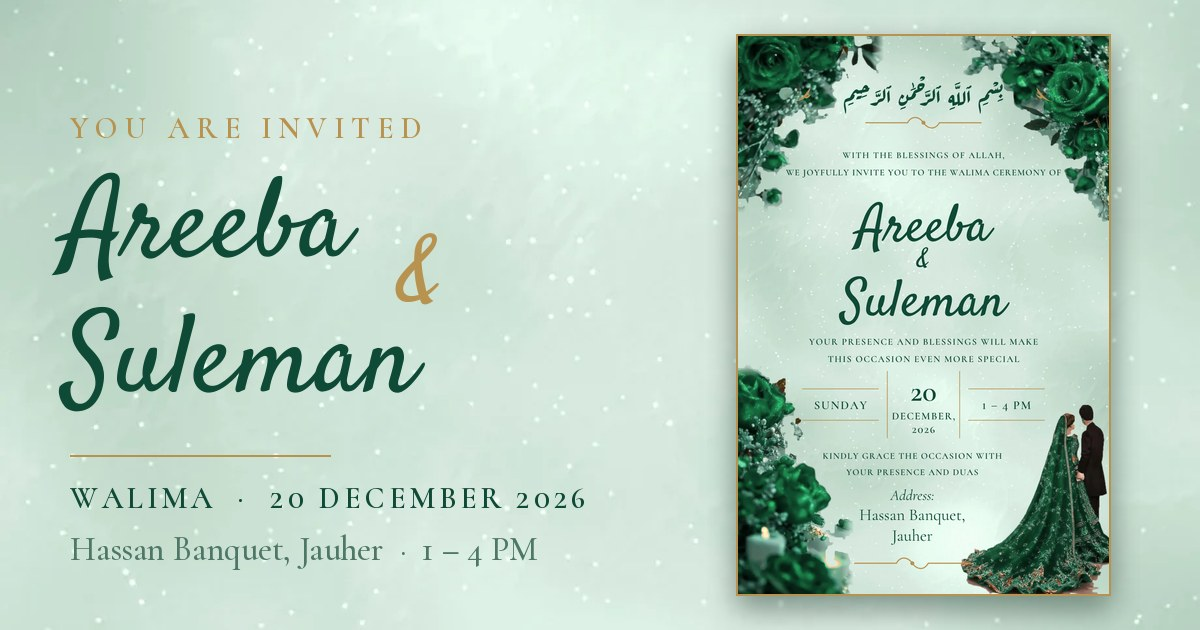
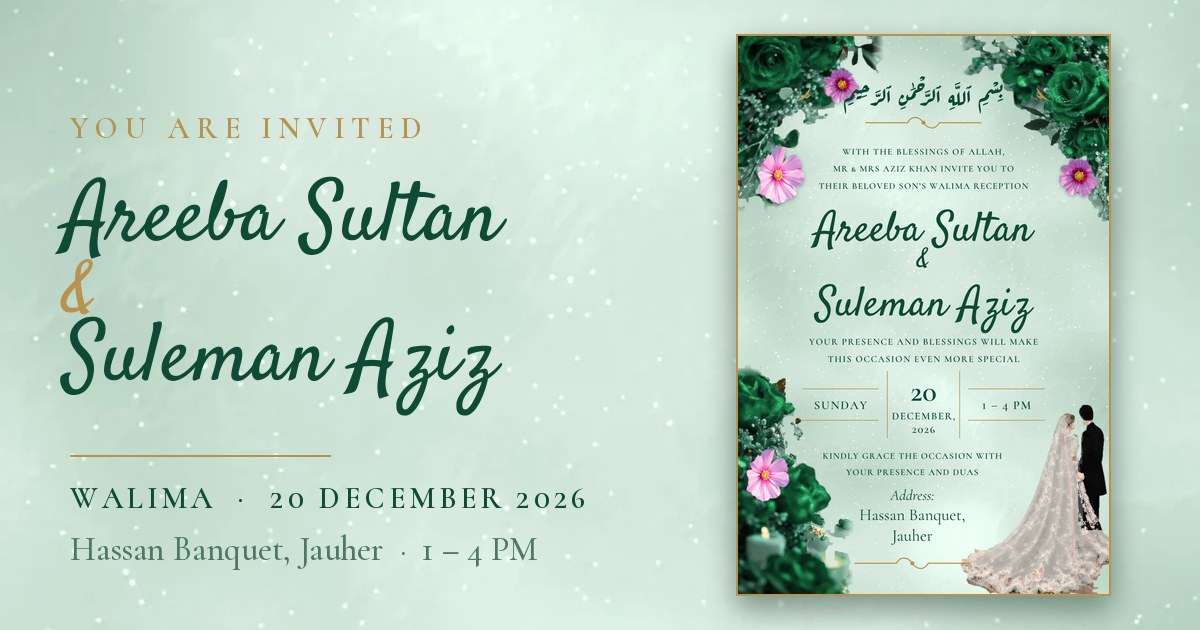
Areeba & Suleman: full names and the hosts' line (Mr & Mrs Aziz Khan) on the card
Claude-Session: https://claude.ai/code/session_014mE54nZZVFzgToMktFZNKW

diff --git a/areeba-suleman/index.html b/areeba-suleman/index.html
@@ -7,15 +7,15 @@
 <link rel="icon" href="favicon.svg" type="image/svg+xml">
 <link rel="apple-touch-icon" href="apple-touch-icon.png">
 <meta property="og:type" content="website">
-<meta property="og:title" content="Areeba &amp; Suleman – Walima Invitation">
+<meta property="og:title" content="Areeba Sultan &amp; Suleman Aziz – Walima Invitation">
 <meta property="og:description" content="You are invited to the Walima on Sunday, 20 December 2026, 1:00 – 4:00 PM at Hassan Banquet, Jauher.">
 <meta property="og:image" content="https://areeba-suleman.vercel.app/og.jpg">
 <meta property="og:image:width" content="1200">
 <meta property="og:image:height" content="630">
 <meta name="twitter:card" content="summary_large_image">
 <meta name="twitter:image" content="https://areeba-suleman.vercel.app/og.jpg">
-<title>Areeba &amp; Suleman – Walima Invitation</title>
-<meta name="description" content="Areeba and Suleman invite you to their Walima on Sunday, 20 December 2026, 1:00 – 4:00 PM at Hassan Banquet, Jauher.">
+<title>Areeba Sultan &amp; Suleman Aziz – Walima Invitation</title>
+<meta name="description" content="Mr and Mrs Aziz Khan invite you to the Walima reception of their beloved son Suleman Aziz and Areeba Sultan on Sunday, 20 December 2026, 1:00 – 4:00 PM at Hassan Banquet, Jauher.">
 <link rel="preconnect" href="https://fonts.googleapis.com">
 <link rel="preconnect" href="https://fonts.gstatic.com" crossorigin>
 <link href="https://fonts.googleapis.com/css2?family=Amiri&family=Satisfy&family=Aref+Ruqaa:wght@400;700&family=Cormorant+Garamond:ital,wght@0,400;0,600;1,400&family=Cormorant+SC:wght@500;600&family=Great+Vibes&family=Playfair+Display:ital,wght@0,400;0,600;1,400&family=Poppins:wght@300;400;600&display=swap" rel="stylesheet">
@@ -154,7 +154,7 @@
   .ec-orn{width:32cqw;height:3.6cqw;color:var(--ec-gold);margin:1cqw 0 3.5cqw}
   .ec-caps{font:600 2.4cqw/1.85 'Cormorant SC','Cormorant Garamond',Georgia,serif;letter-spacing:.07em;text-transform:uppercase;color:var(--ec)}
   .ec-names{font-weight:400;font-family:'Satisfy','Snell Roundhand',cursive;color:var(--ec);line-height:1;margin:0}
-  .ec-names span{display:block;font-size:14cqw;line-height:1}
+  .ec-names span{display:block;font-size:11.2cqw;line-height:1.05}
   .ec-names i{display:block;font-family:'Satisfy','Snell Roundhand',cursive;font-style:normal;font-size:7cqw;line-height:.9;margin:.5cqw 0}
   .ec-date{display:grid;grid-template-columns:1fr 1.05fr 1fr;align-items:center;width:66cqw;margin:3.5cqw 0 0}
   .ec-date .dl,.ec-date .dr{font:600 3.2cqw 'Cormorant SC',Georgia,serif;letter-spacing:.1em;text-transform:uppercase;text-align:center;padding:1.8cqw 0;margin:0 1.6cqw;border-top:1px solid var(--ec-gold);border-bottom:1px solid var(--ec-gold)}
@@ -230,7 +230,7 @@
   .h-name{font:400 2.5rem/1.2 var(--serif);margin-top:6px;overflow-wrap:anywhere}
   .h-sub{color:var(--muted);font-size:.95rem;margin-top:8px}
   .h-of{margin-top:46px;font:600 .7rem var(--sans);letter-spacing:.4em;text-transform:uppercase;color:var(--accent)}
-  .h-names{font:600 clamp(3.2rem,16vw,4.8rem)/1.05 var(--serif);margin-top:14px;letter-spacing:-.01em}
+  .h-names{font:600 clamp(2.2rem,10.6vw,3.6rem)/1.1 var(--serif);margin-top:14px;letter-spacing:-.01em}
   .h-names span{display:block}
   .h-names em{font-style:italic;font-weight:400;color:var(--accent);font-size:1.05em;margin-right:.12em}
   .h-rule{width:170px;height:1px;margin:30px auto;background:linear-gradient(90deg,transparent,var(--gold),transparent)}
@@ -454,10 +454,10 @@
         <div class="ec-top">
           <div class="ec-bw"><svg class="lf" viewBox="0 0 24 24" aria-hidden="true"><use href="#sprig"/></svg><p class="ec-bism" lang="ar" dir="rtl">بِسْمِ ٱللَّهِ ٱلرَّحْمَٰنِ ٱلرَّحِيمِ</p><svg class="lf r" viewBox="0 0 24 24" aria-hidden="true"><use href="#sprig"/></svg></div>
           <svg class="ec-orn" aria-hidden="true"><use href="#flourish"/></svg>
-          <p class="ec-caps">With the blessings of Allah,<br>we joyfully invite you to the Walima ceremony of</p>
+          <p class="ec-caps">With the blessings of Allah,<br>Mr &amp; Mrs Aziz Khan invite you to<br>their beloved son’s Walima reception</p>
         </div>
 
-        <h1 class="ec-names"><span>Areeba</span><i>&amp;</i><span>Suleman</span></h1>
+        <h1 class="ec-names"><span>Areeba Sultan</span><i>&amp;</i><span>Suleman Aziz</span></h1>
 
         <div class="ec-mid">
           <p class="ec-caps">Your presence and blessings will make<br>this occasion even more special</p>
@@ -530,7 +530,7 @@
         <p class="h-sub">We are delighted to celebrate with you</p>
 
         <p class="h-of">The wedding of</p>
-        <h1 class="h-names"><span>Areeba</span><span><em>&amp;</em>Suleman</span></h1>
+        <h1 class="h-names"><span>Areeba Sultan</span><span><em>&amp;</em>Suleman Aziz</span></h1>
         <div class="h-rule"></div>
         <p class="h-quote">With the blessings of Allah, we begin our new life together.</p>
 
@@ -580,7 +580,7 @@
       <p class="eyebrow">The countdown begins</p>
       <h2>Counting Down to <em>Forever</em></h2>
       <div class="rule"></div>
-      <p class="lead">Every second brings us closer to the beautiful celebration of Areeba and Suleman.</p>
+      <p class="lead">Every second brings us closer to the beautiful celebration of Areeba Sultan and Suleman Aziz.</p>
       <div class="card">
         <h3 style="color:var(--accent);margin-top:0">Walima</h3>
         <p class="date" style="margin-top:12px">20 December 2026</p>
@@ -600,7 +600,7 @@
       <div class="rule"></div>
       <p>Some journeys begin quietly and grow into a story worth celebrating for a lifetime.</p>
       <p>With the grace of Allah and the prayers of our loved ones, two lives are becoming one.</p>
-      <p class="story-names">Areeba <i>&amp;</i> Suleman</p>
+      <p class="story-names">Areeba Sultan <i>&amp;</i> Suleman Aziz</p>
     </section>
 
     <section id="journey" class="sec rv wrap">
@@ -740,7 +740,7 @@
       <div class="share-card">
         <svg class="rings" viewBox="0 0 62 34" fill="none" stroke="currentColor" stroke-width="1.6" aria-hidden="true"><circle cx="21" cy="17" r="14"/><circle cx="41" cy="17" r="14"/></svg>
         <p class="eyebrow">You are invited</p>
-        <p class="names2">Areeba <i>&amp;</i> Suleman</p>
+        <p class="names2">Areeba Sultan <i>&amp;</i> Suleman Aziz</p>
         <p class="date">20 December 2026</p>
         <p class="lead" style="margin-top:12px">Hassan Banquet, Jauher</p>
         <div class="share-actions">
@@ -760,7 +760,7 @@
     <p class="eyebrow">With love and gratitude</p>
     <h2>Thank you for being part of our story</h2>
     <p class="lead" style="margin-top:18px">Your love, blessings and presence will make our celebration even more beautiful.</p>
-    <p class="fn">Areeba &amp; Suleman</p>
+    <p class="fn">Areeba Sultan &amp; Suleman Aziz</p>
     <p class="date" style="margin-top:10px">20 December 2026</p>
     <button class="up" type="button" id="toTop" aria-label="Back to top">&#8593;</button>
     <p class="made">Made with love for our forever</p>
@@ -845,7 +845,7 @@
     guest=name;
     $('dear').textContent=name;
     $('rName').value=name;
-    document.title=name+', you are invited – Areeba & Suleman';
+    document.title=name+', you are invited – Areeba Sultan & Suleman Aziz';
   }
   form.addEventListener('submit',function(e){
     e.preventDefault();var name=clean(input.value);if(!name)return;
@@ -865,7 +865,7 @@
     stopTimer();stopMusic();closeMenu();
     invite.hidden=true;stage.hidden=false;stage.className='stage';
     cover.setAttribute('aria-hidden','true');
-    document.title='Areeba & Suleman – Walima Invitation';
+    document.title='Areeba Sultan & Suleman Aziz – Walima Invitation';
     input.select();window.scrollTo(0,0);
   }
   document.addEventListener('visibilitychange',function(){
@@ -930,12 +930,13 @@
     c.direction='rtl';center('بِسْمِ ٱللَّهِ ٱلرَّحْمَٰنِ ٱلرَّحِيمِ',19,'700 '+px(6)+'px "Aref Ruqaa","Amiri","Noto Naskh Arabic",serif');c.direction='ltr';
     (function(){var spr=new Path2D('M2 20C8 18 14 12 19 4C18 12 13 18 2 20Z'),spr2=new Path2D('M11 14C14 15 17 14 20 11C17 17 13 18 11 14Z');c.fillStyle=GOLD;var k=px(6)/24;[[px(18),1],[W-px(18),-1]].forEach(function(o){c.save();c.translate(o[0],px(12.9));c.scale(k*o[1],k);c.translate(-12,0);c.fill(spr);c.fill(spr2);c.restore()})})();
     flourish(CX,23.5,32,GOLD);
-    caps('With the blessings of Allah,',33,2.4,.25);
-    caps('we joyfully invite you to the Walima ceremony of',37.6,2.4,.17);
+    caps('With the blessings of Allah,',32,2.4,.25);
+    caps('Mr & Mrs Aziz Khan invite you to',36.6,2.4,.2);
+    caps('their beloved son’s Walima reception',41.2,2.4,.2);
     var SC='"Satisfy","Snell Roundhand",cursive';
-    center('Areeba',55,px(14)+'px '+SC);
+    center('Areeba Sultan',55,px(11.2)+'px '+SC);
     center('&',62,px(7)+'px '+SC);
-    center('Suleman',75,px(14)+'px '+SC);
+    center('Suleman Aziz',75,px(11.2)+'px '+SC);
     caps('Your presence and blessings will make',83,2.5,.25);
     caps('this occasion even more special',87.6,2.5,.25);
     /* date row */
@@ -978,7 +979,7 @@
       done();if(!b)return;
       var f=new File([b],cardName(),{type:'image/png'});
       if(navigator.canShare&&navigator.canShare({files:[f]})){
-        navigator.share({files:[f],title:'Areeba & Suleman',text:'You are invited to the Walima of Areeba & Suleman.'}).catch(function(){});
+        navigator.share({files:[f],title:'Areeba Sultan & Suleman Aziz',text:'You are invited to the Walima of Areeba Sultan & Suleman Aziz.'}).catch(function(){});
       }else{saveBlob(b);st.textContent='Card saved to your device. Attach it in WhatsApp to share.'}
     });
   }
@@ -1019,7 +1020,7 @@
 
   /* add to calendar (1:00 PM to 4:00 PM Pakistan time = 08:00 to 11:00 UTC) */
   (function(){
-    var T='Walima of Areeba & Suleman',L='Hassan Banquet, Jauher',D='Walima reception, 1:00 PM to 4:00 PM.';
+    var T='Walima of Areeba Sultan & Suleman Aziz',L='Hassan Banquet, Jauher',D='Walima reception, 1:00 PM to 4:00 PM.';
     $('calGoogle').href='https://calendar.google.com/calendar/render?action=TEMPLATE&text='+encodeURIComponent(T)+'&dates=20261220T080000Z/20261220T110000Z&details='+encodeURIComponent(D)+'&location='+encodeURIComponent(L);
     $('calIcs').addEventListener('click',function(){
       var ics=['BEGIN:VCALENDAR','VERSION:2.0','PRODID:-//Areeba and Suleman//Invitation//EN','CALSCALE:GREGORIAN','BEGIN:VEVENT',
@@ -1063,7 +1064,7 @@
     if(!att){rErr.textContent='Please choose whether you can join us.';rErr.hidden=false;return}
     rErr.hidden=true;
     var phone=clean($('rPhone').value), msg=$('rMsg').value.trim().slice(0,300);
-    var lines=['RSVP: Areeba & Suleman’s Walima, Sunday 20 December 2026','Name: '+name];
+    var lines=['RSVP: Areeba Sultan & Suleman Aziz’s Walima, Sunday 20 December 2026','Name: '+name];
     if(phone)lines.push('WhatsApp: '+phone);
     lines.push('Response: '+att);
     if(att!=='Regretfully Decline')lines.push('Guests: '+rForm.querySelector('input[name=cnt]:checked').value);
@@ -1077,11 +1078,11 @@
   /* share */
   var status=$('shareStatus');
   function pageUrl(){try{return location.origin+location.pathname}catch(_){return location.href}}
-  var shareText='You are invited to the Walima of Areeba & Suleman — Sunday, 20 December 2026, Hassan Banquet, Jauher.';
+  var shareText='You are invited to the Walima of Areeba Sultan & Suleman Aziz — Sunday, 20 December 2026, Hassan Banquet, Jauher.';
   $('shareWa').addEventListener('click',function(){openLink('https://wa.me/?text='+encodeURIComponent(shareText+'\n'+pageUrl()))});
   $('shareAny').addEventListener('click',function(){
     var url=pageUrl();
-    if(navigator.share){navigator.share({title:'Areeba & Suleman',text:shareText,url:url}).catch(function(){})}
+    if(navigator.share){navigator.share({title:'Areeba Sultan & Suleman Aziz',text:shareText,url:url}).catch(function(){})}
     else if(navigator.clipboard&&navigator.clipboard.writeText){
       navigator.clipboard.writeText(url).then(function(){status.textContent='Link copied.'},function(){status.textContent='Copy this link: '+url});
     } else status.textContent='Copy this link: '+url;
